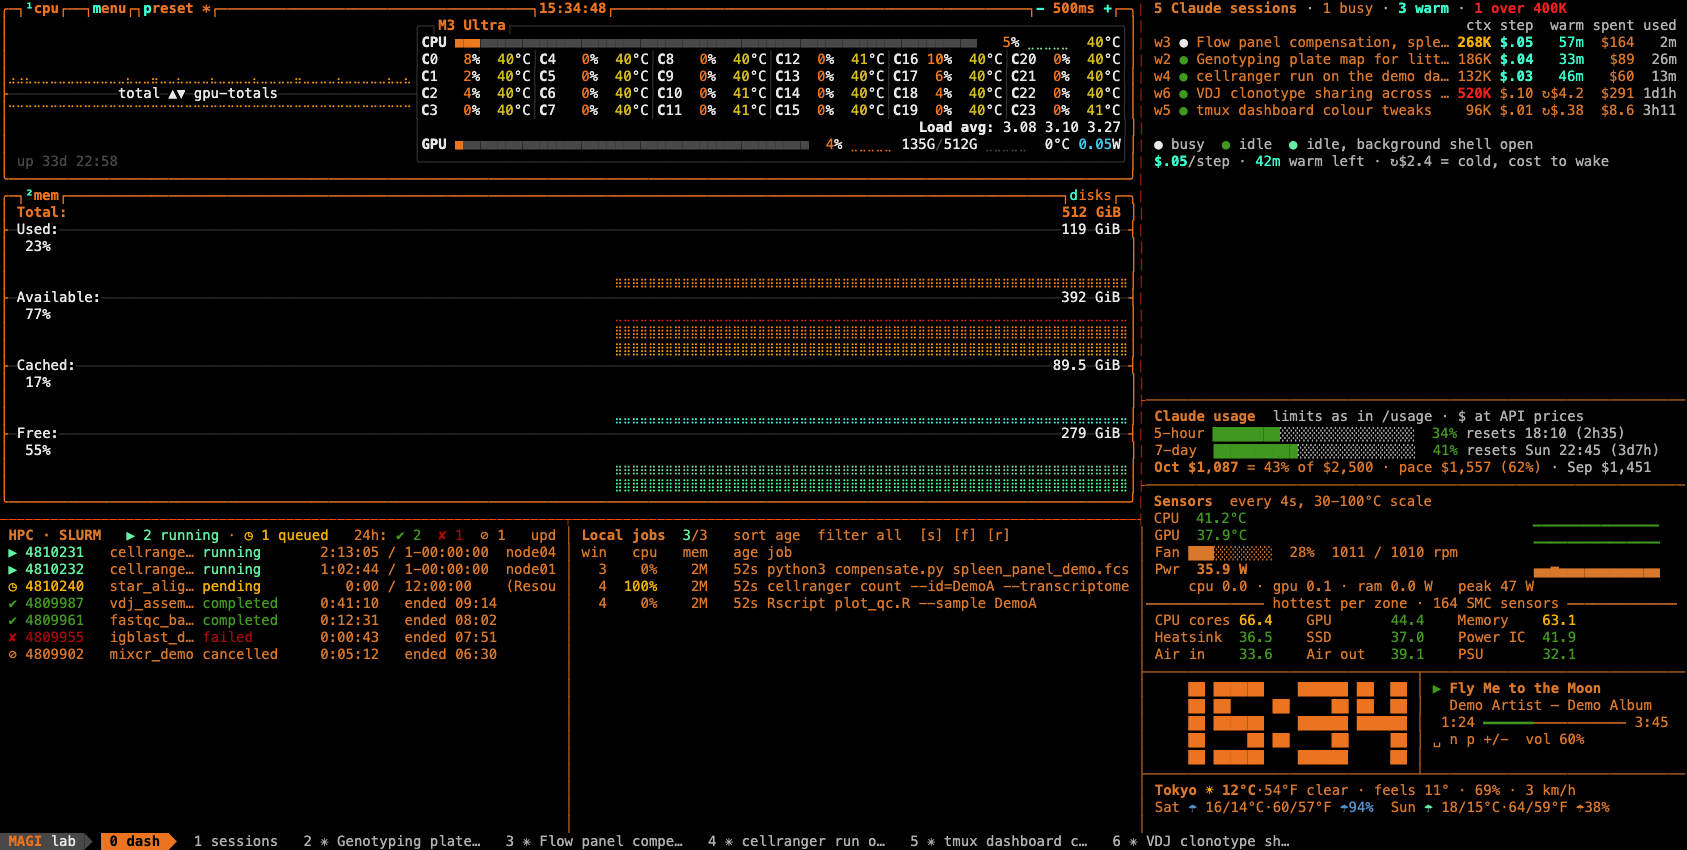
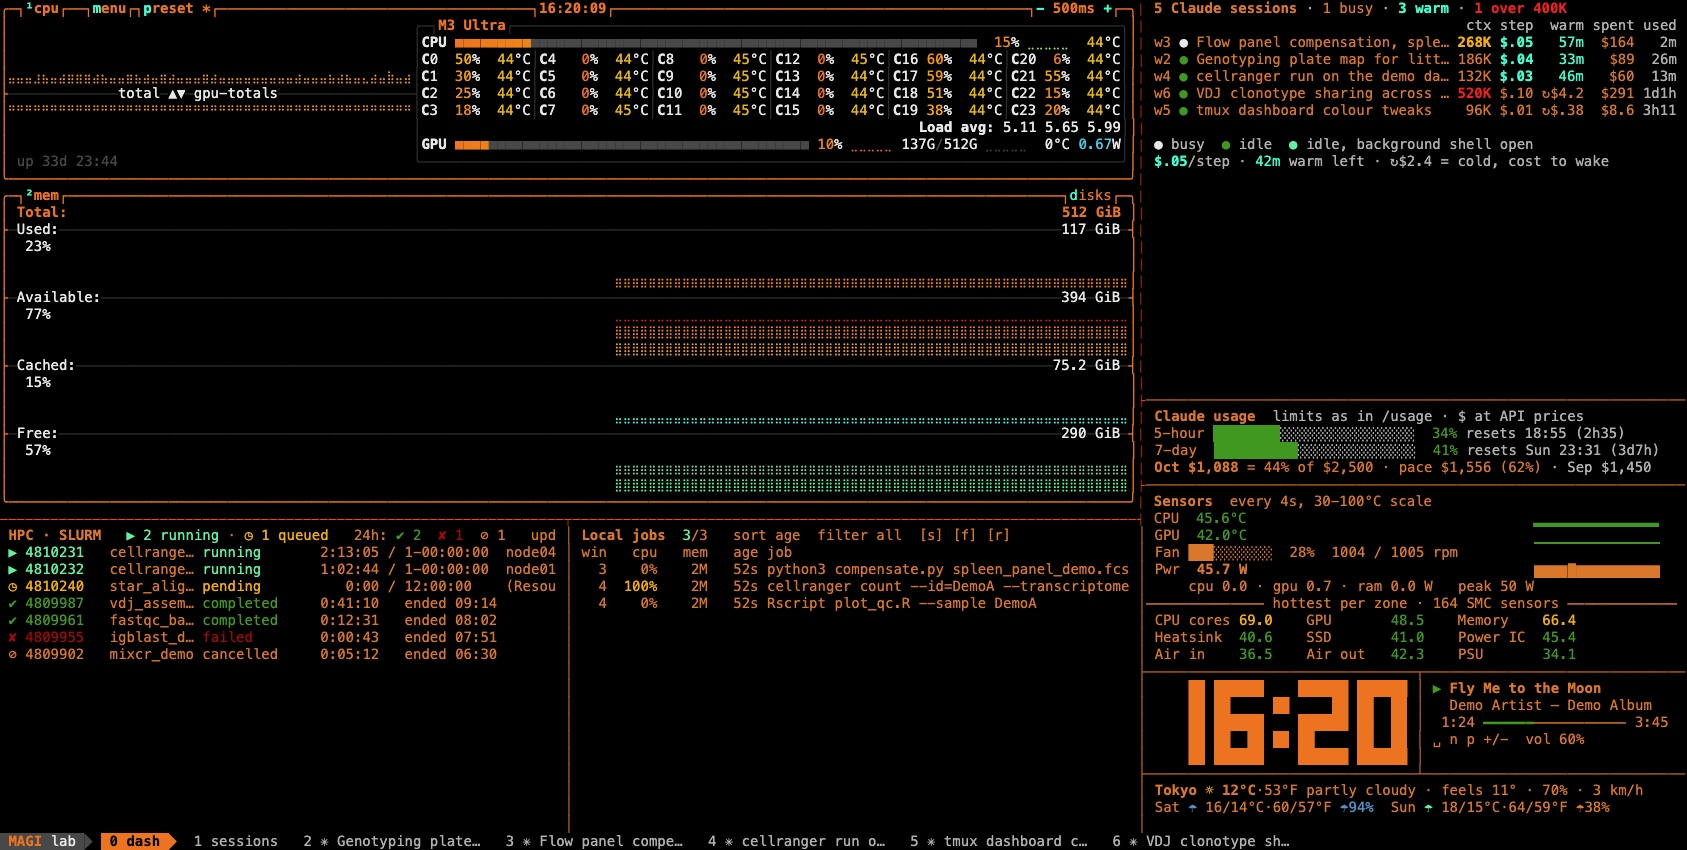
Month spend bars in the usage pane, theme gallery in the README
- Usage pane: spend by month as bars in the theme's accent, each with its
  total; this month solid to date and shaded up to its pace; the budget as a
  red dotted line. They take the rows left down to the clock (7 or more),
  before the 7-day bars.
- README: a gallery of the MAGI, EVA-01, EVA-02 and default looks, and a
  portrait dash (119x94) showing the month bars.
- demo/make-screenshots: themes the sandbox with dash-theme's tmux and btop
  code only (never iTerm, VS Code or the real tmux server), adds eight months
  of made-up history, and draws block characters as solid boxes as iTerm does.

diff --git a/README.md b/README.md
@@ -119,7 +119,12 @@ can no longer be resumed or restored; its spend still counts if the dashboard ha
   goes cold.
 - **Spend index.** The memory that counting spend takes in each process that shows spend (both panels and the browser,
   per dashboard), and the size of its file.
-- A short pane keeps the most important lines. A tall one also gets the 7 days as bars.
+- **Spend by month.** In a tall pane, bars in the theme's colour fill the rows down to the clock:
+  - one bar per month, with its total above it;
+  - this month is solid up to today and shaded (`░`) up to its pace;
+  - a set budget is a red dotted line.
+- A short pane keeps the most important lines. With 7 rows to spare it adds the month bars, and with 9 more the last
+  7 days.
 
 In a tall window the usage pane has room for every line:
 
@@ -245,8 +250,21 @@ Close a session without losing its task.
 ## Themes
 
 - `dash-theme magi|eva01|eva02|default` switches tmux, btop, iTerm and VS Code together.
-- MAGI turns the dashboard orange; Claude's own windows keep their colours.
+- MAGI turns the whole dashboard orange; Claude's own windows keep their colours.
+- EVA-01 and EVA-02 colour btop, the clock, the status bar and the terminal, and leave panel text plain.
+- `default` goes back to tmux's green status bar, btop's own colours and your terminal's palette.
 - The themes need the MAGI-theme files, which `install.sh --theme` fetches.
+
+<table>
+<tr>
+<td><img src="docs/img/dashboard.png" alt="MAGI theme" width="420"><br>MAGI</td>
+<td><img src="docs/img/theme-eva01.png" alt="EVA-01 theme" width="420"><br>EVA-01</td>
+</tr>
+<tr>
+<td><img src="docs/img/theme-eva02.png" alt="EVA-02 theme" width="420"><br>EVA-02</td>
+<td><img src="docs/img/theme-default.png" alt="default look" width="420"><br>default</td>
+</tr>
+</table>
 
 ## Settings
 

diff --git a/NEWS.md b/NEWS.md
@@ -1,5 +1,22 @@
 # tmux-dashboard news
 
+## 2026-10-22: spend by month as bars, theme screenshots
+
+- **Spend by month.** The usage pane draws each month's spend as bars when it has 7 rows to spare: on a portrait
+  screen, between its text and the clock.
+  - The bars are in the theme's accent colour (MAGI orange), each with its total above it.
+  - This month is solid up to today and shaded (`░`) up to its pace. `MONTH_BUDGET_USD` is a red dotted line.
+  - The month bars come before the 7-day bars, which now need 9 more rows: the 7 days are in the spark line already.
+  - The wide dash's usage pane has 4 rows, so the month bars never show there.
+- **Theme screenshots.** The README shows MAGI, EVA-01, EVA-02 and default side by side, plus a portrait dash
+  (119x94, a portrait monitor) where the usage pane has room for the month bars.
+  - `demo/make-screenshots` themes its sandbox with `dash-theme`'s tmux and btop code only, aimed at the fake HOME and
+    the demo tmux server. The iTerm, VS Code and shell-colour steps never run.
+  - Before changing anything, it checks that every file it would write is inside the fake HOME.
+  - The demo now has eight months of made-up history, so the month bars have something to show.
+  - Block characters are drawn as filled boxes, as iTerm draws them, so bars have no gaps between rows.
+  - It takes about 5 minutes.
+
 ## 2026-10-22: spend index size, a shorter README, screenshots
 
 - **Spend index size.** The usage pane's last line shows what counting spend takes:
